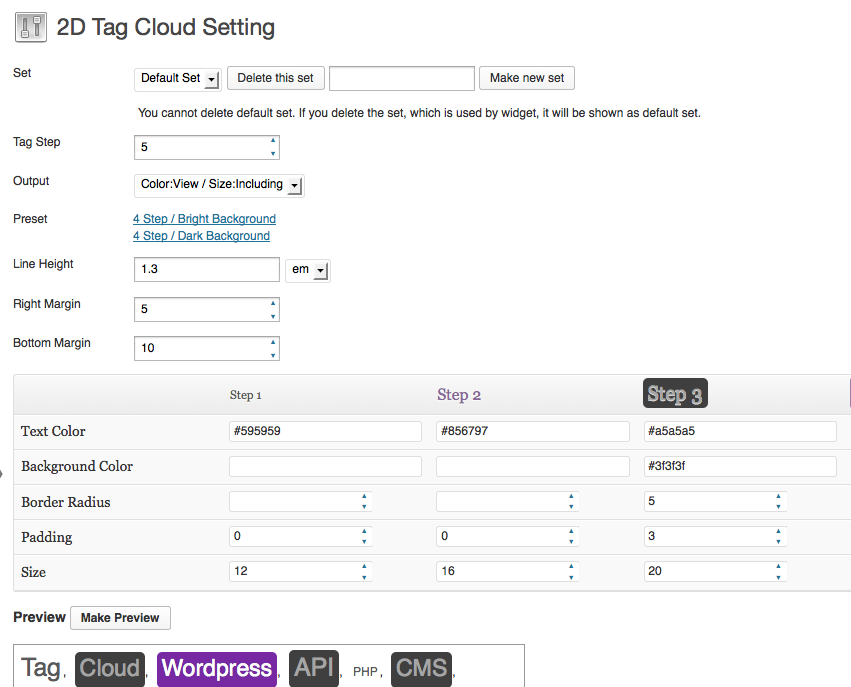
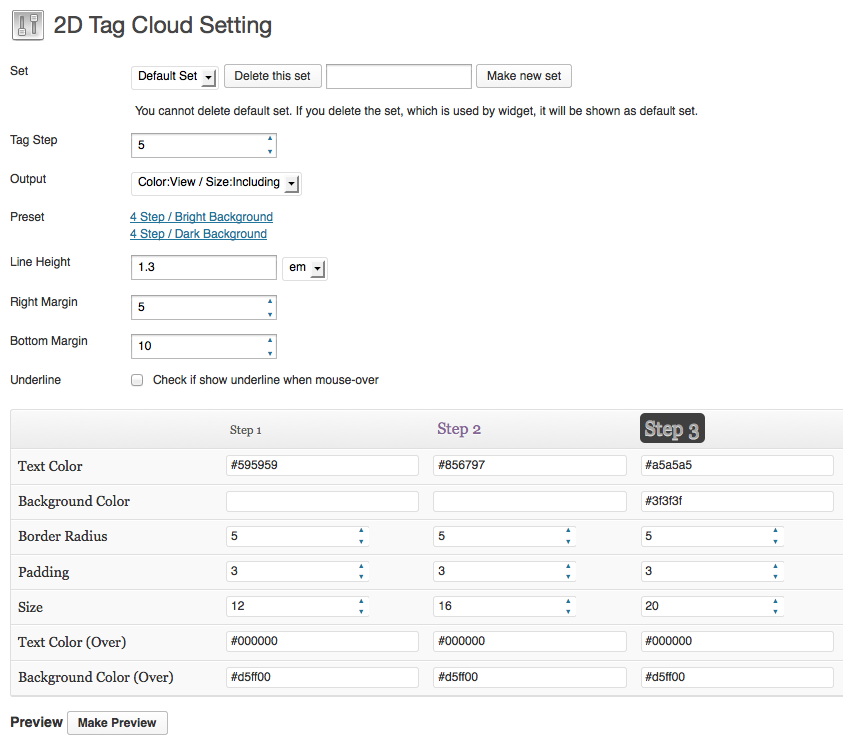
= 4.0 = * You can set mouse-over color. (마우스 오버 시 컬러 변화를 설정할 수 있어요) * If you set mouse-over color, I want you to set padding and border-radius. (마우스 오버 컬러를 설정하시면 패딩하고 보더 래디어스를 설정하시길 바래요) * You can set text-underline attribute when mouse-over. (마우스 오버 시 언더라인 표시 여부도 설정하실 수 있어요.)
git-svn-id: https://plugins.svn.wordpress.org/2d-tag-cloud-widget-by-sujin/trunk@655674 b8457f37-d9ea-0310-8a92-e5e31aec5664

diff --git a/assets/admin.js b/assets/admin.js
@@ -200,26 +200,35 @@ function do_preset_4_white() {
 	jQuery('#line_height_unit').val('em');
 	jQuery('#margin_right').val(5);
 	jQuery('#margin_bottom').val(10);
+	jQuery('#underline').attr('checked', false);
 
 	jQuery('#tag_color_step_1').val('#cecece');
 	jQuery('#tag_bgcolor_step_1').val('');
-	jQuery('#tag_radius_step_1').val('');
-	jQuery('#tag_padding_step_1').val(0);
+	jQuery('#tag_radius_step_1').val(5);
+	jQuery('#tag_padding_step_1').val(3);
+	jQuery('#tag_color_over_step_1').val('#000000');
+	jQuery('#tag_bgcolor_over_step_1').val('#d5ff00');
 
 	jQuery('#tag_color_step_2').val('#856797');
 	jQuery('#tag_bgcolor_step_2').val('');
-	jQuery('#tag_radius_step_2').val('');
-	jQuery('#tag_padding_step_2').val(0);
+	jQuery('#tag_radius_step_2').val(5);
+	jQuery('#tag_padding_step_2').val(3);
+	jQuery('#tag_color_over_step_2').val('#000000');
+	jQuery('#tag_bgcolor_over_step_2').val('#d5ff00');
 
 	jQuery('#tag_color_step_3').val('#FFFFFF');
 	jQuery('#tag_bgcolor_step_3').val('#c9bbd2');
 	jQuery('#tag_radius_step_3').val(5);
 	jQuery('#tag_padding_step_3').val(3);
+	jQuery('#tag_color_over_step_3').val('#000000');
+	jQuery('#tag_bgcolor_over_step_3').val('#d5ff00');
 
 	jQuery('#tag_color_step_4').val('#FFFFFF');
 	jQuery('#tag_bgcolor_step_4').val('#7629A3');
 	jQuery('#tag_radius_step_4').val(5);
 	jQuery('#tag_padding_step_4').val(3);
+	jQuery('#tag_color_over_step_4').val('#000000');
+	jQuery('#tag_bgcolor_over_step_4').val('#d5ff00');
 
 	jQuery('#tag_size_step_1').val(12);
 	jQuery('#tag_size_step_2').val(16);
@@ -238,26 +247,35 @@ function do_preset_4_black() {
 	jQuery('#line_height_unit').val('em');
 	jQuery('#margin_right').val(5);
 	jQuery('#margin_bottom').val(10);
+	jQuery('#underline').attr('checked', false);
 
 	jQuery('#tag_color_step_1').val('#CECECE');
 	jQuery('#tag_bgcolor_step_1').val('');
-	jQuery('#tag_radius_step_1').val('');
-	jQuery('#tag_padding_step_1').val(0);
+	jQuery('#tag_radius_step_1').val(5);
+	jQuery('#tag_padding_step_1').val(3);
+	jQuery('#tag_color_over_step_1').val('#FFFFFF');
+	jQuery('#tag_bgcolor_over_step_1').val('#fcc111');
 
 	jQuery('#tag_color_step_2').val('#FFFFFF');
 	jQuery('#tag_bgcolor_step_2').val('');
-	jQuery('#tag_radius_step_2').val('');
-	jQuery('#tag_padding_step_2').val(0);
+	jQuery('#tag_radius_step_2').val(5);
+	jQuery('#tag_padding_step_2').val(3);
+	jQuery('#tag_color_over_step_2').val('#FFFFFF');
+	jQuery('#tag_bgcolor_over_step_2').val('#fcc111');
 
 	jQuery('#tag_color_step_3').val('#FFFFFF');
 	jQuery('#tag_bgcolor_step_3').val('#fde394');
 	jQuery('#tag_radius_step_3').val(5);
 	jQuery('#tag_padding_step_3').val(3);
+	jQuery('#tag_color_over_step_3').val('#FFFFFF');
+	jQuery('#tag_bgcolor_over_step_3').val('#bc8d00');
 
 	jQuery('#tag_color_step_4').val('#FFFFFF');
 	jQuery('#tag_bgcolor_step_4').val('#fcc111');
 	jQuery('#tag_radius_step_4').val(5);
 	jQuery('#tag_padding_step_4').val(3);
+	jQuery('#tag_color_over_step_4').val('#FFFFFF');
+	jQuery('#tag_bgcolor_over_step_4').val('#705400');
 
 	jQuery('#tag_size_step_1').val(12);
 	jQuery('#tag_size_step_2').val(16);

diff --git a/assets/admin.css b/assets/admin.css
@@ -19,3 +19,6 @@
 #sjTagPreview {clear:both; display:block; width:500px; border:1px solid #999999; padding:5px;}
 
 .sjTag .desc {margin:1em 0 1em 125px;}
+
+.sjTag #underline {float:left; margin-right:10px;}
+.sjTag #label_underline {width:auto;}

diff --git a/functions.php b/functions.php
@@ -295,6 +295,8 @@ class sj2DTag {
 
 		$style = 'margin-right:' . $margin_right . 'px !important; margin-bottom:' . $margin_bottom . 'px !important; display:inline-block !important; line-height:' . $line_height . $line_height_unit . ' !important; text-decoration:none !important;';
 
+		$underline = ($underline) ? 'text-decoration:underline !important;' : '';
+
 		$output = 'body .sj_tagcloud_set_' . $this->set_number . ' a {' . $style . '}';
 
 		for($i=1; $i<=$tag_step; $i++) {
@@ -313,9 +315,15 @@ class sj2DTag {
 			if (!empty($tag_config['size'][$i]))
 				$style_size = 'font-size:' . $tag_config['size'][$i] . 'px !important;';
 	
+			if (!empty($tag_config['color'][$i]['color_over']))
+				$style_color_over = 'color:' . $tag_config['color'][$i]['color_over'] . ' !important;';
 	
+			if (!empty($tag_config['color'][$i]['bgcolor_over']))
+				$style_color_over.= 'background-color:' . $tag_config['color'][$i]['bgcolor_over'] . ' !important;';
+
 			$output.= 'body .sj_tagcloud_set_' . $this->set_number . ' a.size_' . $i . ' {' . $style_size . '}';
-			$output.= 'body .sj_tagcloud_set_' . $this->set_number . ' a.color_' . $i . ' {' . $style_color . '}';
+			$output.= 'body .sj_tagcloud_set_' . $this->set_number . ' a.color_' . $i . ' {' . $style_color . ' transition:color 0.25s ease-in 0s, background-color 0.25s ease-in 0s;}';
+			$output.= 'body .sj_tagcloud_set_' . $this->set_number . ' a.color_' . $i . ':hover {' . $style_color_over . ' ' . $underline . '}';
 		}
 
 		return $output;
@@ -340,12 +348,15 @@ class sj2DTag {
 			$line_height_unit = 'em';
 			$margin_right = 5;
 			$margin_bottom = 10;
+			$underline = 0;
 	
 			$tag_config = array(
 				'color' => array(
 					1 => array(
 						'color' => '#000000',
 						'bgcolor' => '',
+						'color_over' => '',
+						'bgcolor_over' => '',
 						'radius' => 0,
 						'padding' => 0
 					)
@@ -364,6 +375,7 @@ class sj2DTag {
 			$line_height_unit = $options['line_height_unit'];
 			$margin_right = $options['margin_right'];
 			$margin_bottom = $options['margin_bottom'];
+			$underline = $options['underline'];
 	
 			$tag_config = $options['tag_config'];
 		}
@@ -375,6 +387,7 @@ class sj2DTag {
 			'line_height_unit' => $line_height_unit,
 			'margin_right' => $margin_right,
 			'margin_bottom' => $margin_bottom,
+			'underline' => $underline,
 			'tag_config' => $tag_config
 		);
 	}
@@ -419,6 +432,8 @@ class sj2DTag {
 			$tag_config['color'][$i] = array(
 				'color' => $_POST['tag_color_step_' . $i],
 				'bgcolor' => $_POST['tag_bgcolor_step_' . $i],
+				'color_over' => $_POST['tag_color_over_step_' . $i],
+				'bgcolor_over' => $_POST['tag_bgcolor_over_step_' . $i],
 				'radius' => $_POST['tag_radius_step_' . $i],
 				'padding' => $_POST['tag_padding_step_' . $i]
 			);
@@ -426,6 +441,8 @@ class sj2DTag {
 			$tag_config['size'][$i] =$_POST['tag_size_step_' . $i];
 		}
 		
+		$underline = (isset($_POST['underline'])) ? 'true' : '';
+
 		$tag_config = array(
 			'tag_step' => $_POST['tag_step'],
 			'tag_method' => $_POST['tag_method'],
@@ -434,6 +451,7 @@ class sj2DTag {
 			'line_height_unit' => $_POST['line_height_unit'],
 			'margin_right' => $_POST['margin_right'],
 			'margin_bottom' => $_POST['margin_bottom'],
+			'underline' => $underline,
 			'tag_config' => $tag_config
 		);
 
@@ -598,7 +616,12 @@ class sj2DTag {
 					<input id="margin_bottom" class="jquery-spinner" name="margin_bottom" value="<?php echo $margin_bottom ?>" />
 					<p class="desc label"></p>
 				</div>
-		
+
+				<div class="col_wrapper">
+					<label for=""><?php _e('Underline', $this->text_domain); ?></label>
+					<input type="checkbox" id="underline" name="underline" <?php if ($underline) echo 'checked="checked"' ?> /> <label for="underline" id="label_underline"><?php _e('Check if show underline when mouse-over', $this->text_domain); ?></label>
+				</div>
+
 				<div id="prev_wrapper">
 					<table id="sjTagTable" class="wp-list-table widefat fixed posts">
 						<thead>
@@ -642,6 +665,19 @@ class sj2DTag {
 								<th><?php _e('Size', $this->text_domain); ?></th>
 								<?php foreach($tag_config['size'] as $key => $value) { ?>
 								<td><input type="text" id="tag_size_step_<?php echo $key ?>" name="tag_size_step_<?php echo $key ?>" class="tag_size jquery-spinner" value="<?php echo $value ?>" /></td>
+								<?php } ?>
+							</tr>
+
+								<th><?php _e('Text Color', $this->text_domain); ?> <?php _e('(Over)', $this->text_domain); ?></th>
+								<?php foreach($tag_config['color'] as $key => $value) { ?>
+								<td><input type="text" id="tag_color_over_step_<?php echo $key ?>" name="tag_color_over_step_<?php echo $key ?>" class="tag_color_over color-picker" value="<?php echo $value['color_over'] ?>" /></td>
+								<?php } ?>
+							</tr>
+		
+							<tr>
+								<th><?php _e('Background Color', $this->text_domain); ?> <?php _e('(Over)', $this->text_domain); ?></th>
+								<?php foreach($tag_config['color'] as $key => $value) { ?>
+								<td><input type="text" id="tag_bgcolor_over_step_<?php echo $key ?>" name="tag_bgcolor_over_step_<?php echo $key ?>" class="tag_bgcolor_over color-picker" value="<?php echo $value['bgcolor_over'] ?>" /></td>
 								<?php } ?>
 							</tr>
 						</tbody>

diff --git a/two-dimensional-tag-cloud-sujin.php b/two-dimensional-tag-cloud-sujin.php
@@ -3,7 +3,7 @@
  * Plugin Name: 2D Tag Cloud by Sujin
  * Plugin URI: http://www.sujinc.com/2d-tag-cloud-widget/
  * Description: This plugin is one of the WordPress widget, which makes tag-cloud with two visual value. 두가자의 기준에 의해 글자의 색상과 크기를 달리해서 태그를 표시하는 플러그인입니다.
- * Version: 3.0.1
+ * Version: 4.0
  * Author: Sujin 수진 Choi 최
  * Author URI: http://www.sujinc.com/
  * License: GPLv2 or later
